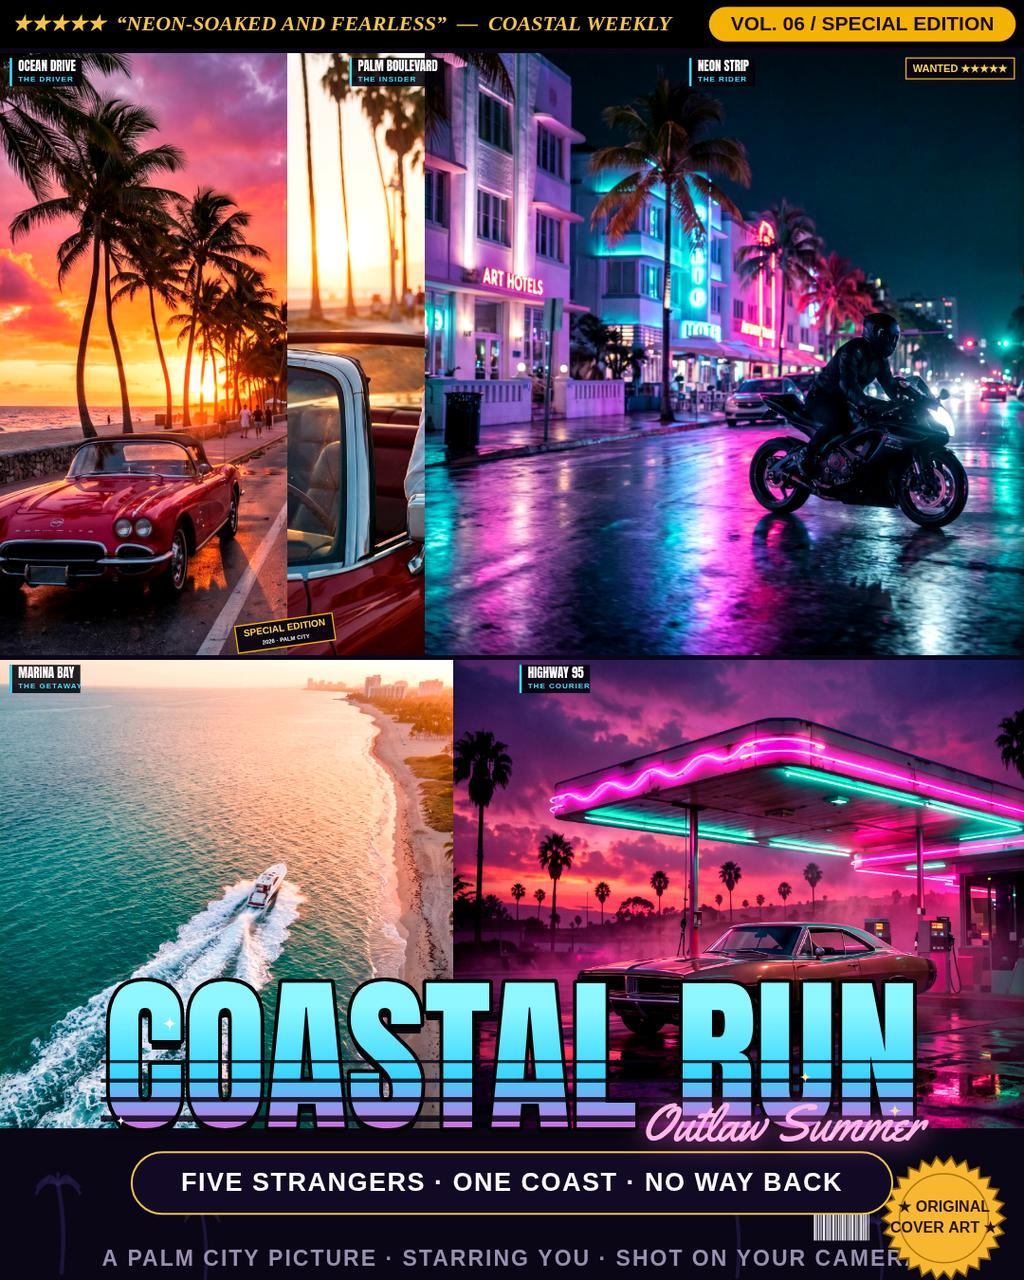
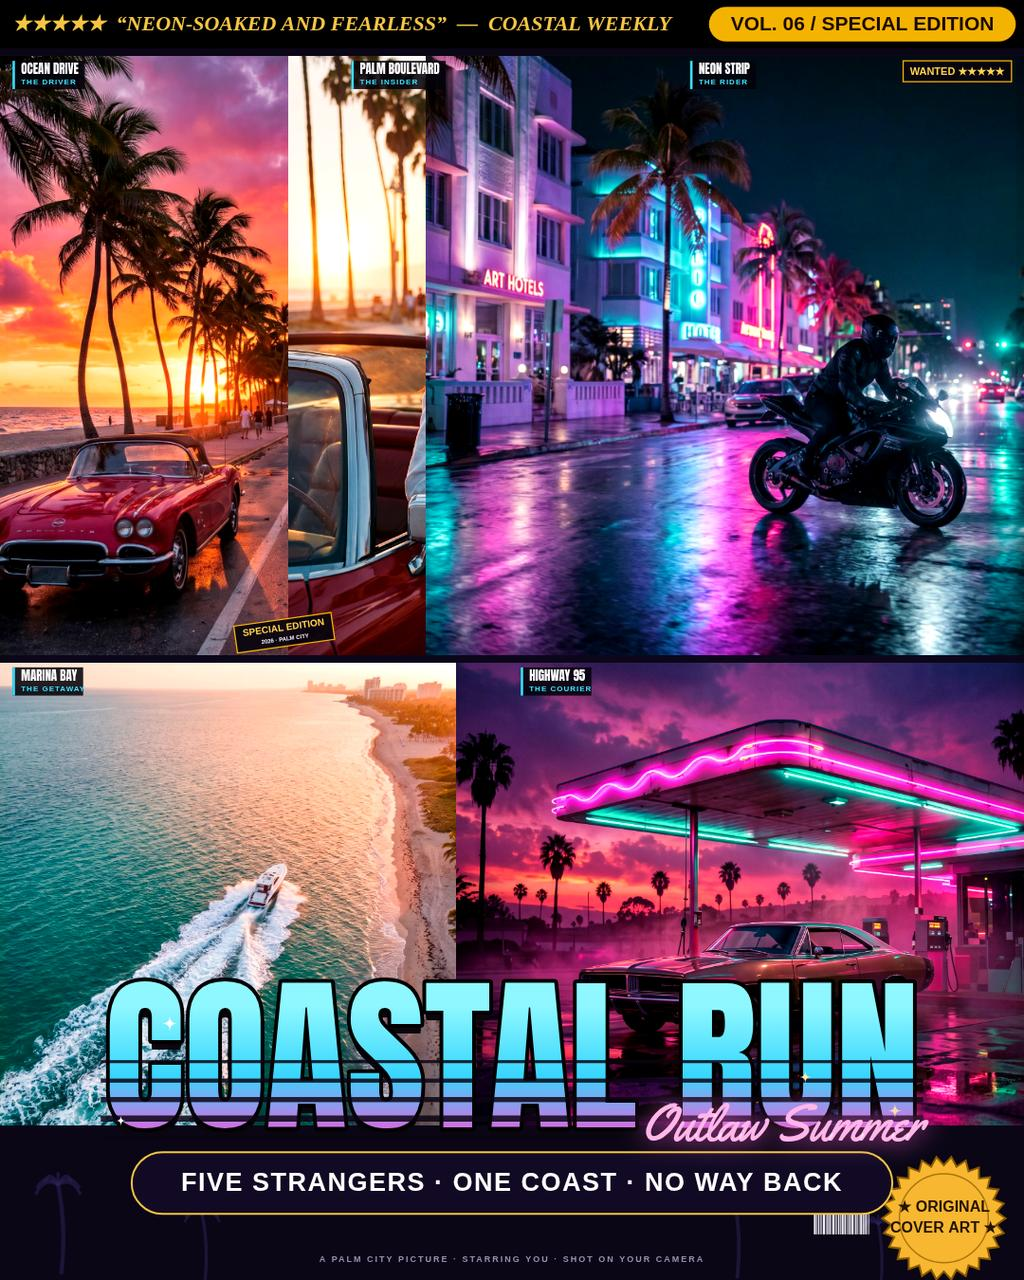
Micro patch #2 (v11): restore panel dividers, shrink footer credits clear of barcode

diff --git a/app/poster.js b/app/poster.js
@@ -615,7 +615,7 @@
     ctx.textAlign = 'center';
     ctx.textBaseline = 'middle';
     ctx.fillStyle = '#9a8fb0';
-    ctx.font = '600 ' + Math.round(Math.max(11, footerH * 0.15)) + 'px Arial, sans-serif';
+    ctx.font = '600 ' + Math.max(9, Math.round(W * 0.0085)) + 'px Arial, sans-serif';
     setLetterSpacing(ctx, 2);
     ctx.fillText(CREDITS, W / 2, footerTop + footerH * 0.86);
     setLetterSpacing(ctx, 0);
@@ -623,7 +623,7 @@
     var stampR = footerH * 0.42;
     var stampCx = W - stampR - W * 0.018;
     var stampCy = footerTop + footerH * 0.58;
-    var barW = Math.round(W * 0.055), barH = Math.round(footerH * 0.30);
+    var barW = Math.round(W * 0.055), barH = Math.round(footerH * 0.22);
     drawBarcode(ctx, stampCx - stampR - barW - W * 0.012, stampCy - barH / 2, barW, barH);
     drawStamp(ctx, stampCx, stampCy, stampR);
 
@@ -693,7 +693,7 @@
     var qbH = Math.max(28, Math.round(H * 0.038));
     var footerH = Math.round(H * cover.footerFrac);
     var footerTop = H - footerH;
-    var gap = Math.max(5, Math.round(W * 0.004));
+    var gap = Math.max(8, Math.round(W * 0.0075));
     var photoRect = { x: gap, y: qbH + gap, w: W - gap * 2, h: footerTop - qbH - gap * 2 };
 
     /* --- Photos --- */
